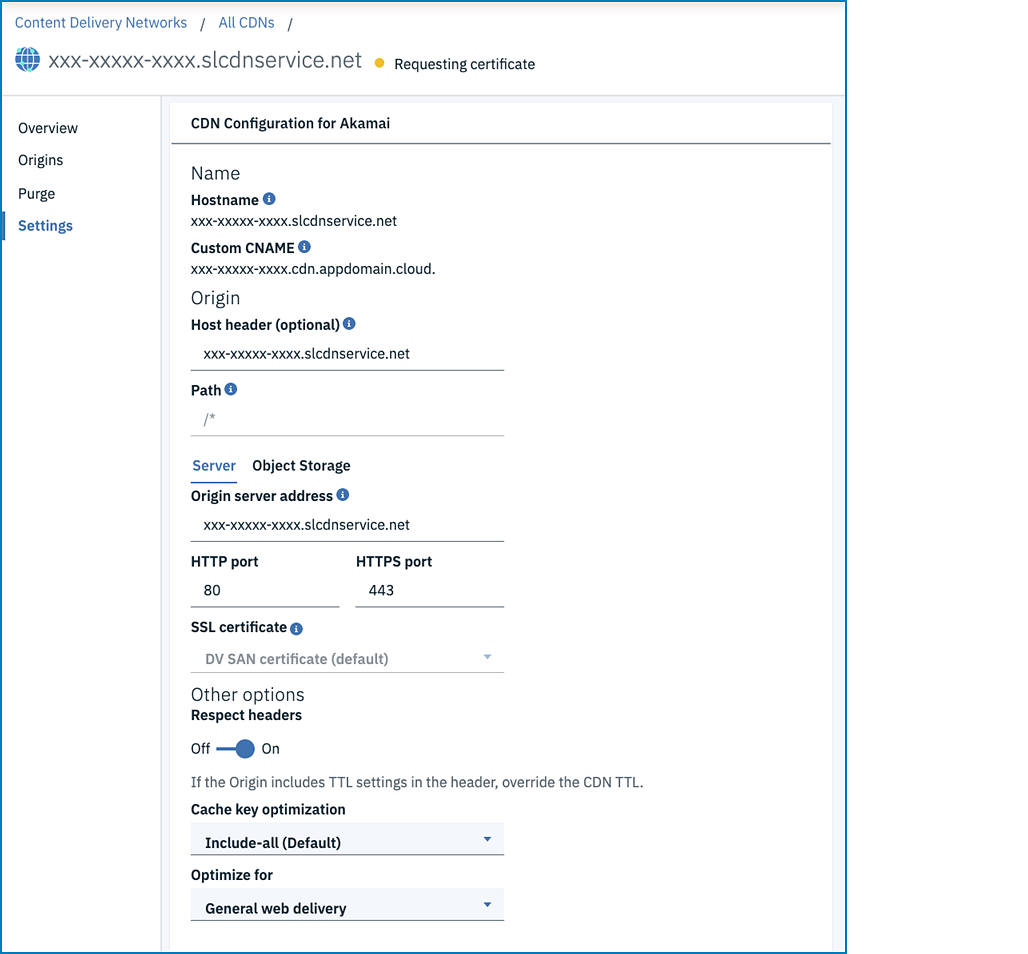
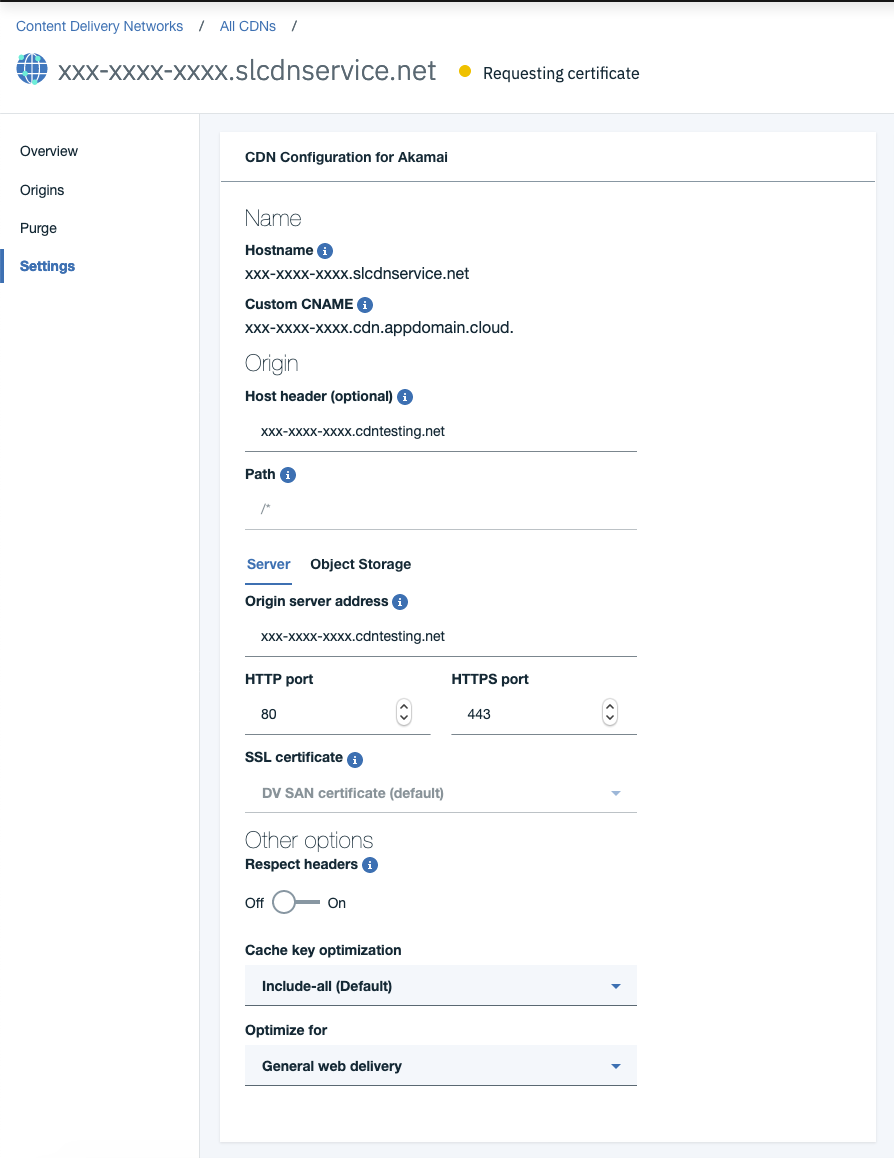
PR updates & template changes

diff --git a/whats-new.md b/whats-new.md
@@ -2,7 +2,7 @@
 
 copyright:
   years: 2018, 2020
-lastupdated: "2020-09-28"
+lastupdated: "2020-12-03"
 
 keywords:
 
@@ -24,54 +24,60 @@ subcollection: CDN
 {{site.data.keyword.cloud}} launched the CDN service with Akamai in September 2017, but we haven't stopped there. We continue to make enhancements and add new features to the service, in order to better serve you and your end-users. Check back periodically to see what's new.
 {:shortdesc}
 
+## December 2020
+{: #december-2020}
+
+  * Change the default [respect header](/docs/CDN?topic=CDN-about-content-delivery-networks-cdn-#respect-headers) value from `ON` to `OFF`.
+  * Add [Feedback widget](/docs/overview?topic=overview-feedback) for CDN service.
+
 ## September 2020
 {: #september-2020}
 
   * Performance optimization [Akamai CNAME](/docs/CDN?topic=CDN-getting-to-running-status#akamai-cname) support
-  * Added a DNS based [challenge domain](/docs/CDN?topic=CDN-completing-domain-control-validation-for-https-with-dv-san#challenge-domain) validation method for SAN HTTPS
+  * Added a DNS based [challenge domain](/docs/CDN?topic=CDN-completing-domain-control-validation-for-https-with-dv-san#challenge-domain) validation method for SAN HTTPS.
 
 ## August 2020
 {: #august-2020}
 
-  * Token authentication support [feature description](/docs/CDN?topic=CDN-about-content-delivery-networks-cdn-#token-authentication) (available through API)
+  * Token authentication support [feature description](/docs/CDN?topic=CDN-about-content-delivery-networks-cdn-#token-authentication) (available through API).
 
 ## July 2020
 {: #july-2020}
 
-  * Integrated CDN mapping metrics API support [API reference](/docs/CDN?topic=CDN-cdn-api-reference#getmappingintegratedmetrics)
+  * Integrated CDN mapping metrics API support [API reference](/docs/CDN?topic=CDN-cdn-api-reference#getmappingintegratedmetrics).
 
 ## March 2020
 {: #march-2020}
 
-  * Multiple files purge [feature description](/docs/CDN?topic=CDN-about-content-delivery-networks-cdn-#purge-cached-content) (available through UI and API)
-  * Real-time metrics API [feature description](/docs/CDN?topic=CDN-metrics) (available through UI and API)
-  * Activity Tracker Events for Audit log [feature description](/docs/CDN?topic=CDN-at_events) (available through UI)
+  * Multiple files purge [feature description](/docs/CDN?topic=CDN-about-content-delivery-networks-cdn-#purge-cached-content) (available through UI and API).
+  * Real-time metrics API [feature description](/docs/CDN?topic=CDN-metrics) (available through UI and API).
+  * Activity Tracker Events for Audit log [feature description](/docs/CDN?topic=CDN-at_events) (available through UI).
 
 ## October 2019
 {: #october-2019}
 
-  * Dynamic Content Acceleration [feature description](/docs/CDN?topic=CDN-about-content-delivery-networks-cdn-#dynamic-content-acceleration-description) (available through UI and API)
-  * [Metrics reports](/docs/CDN?topic=CDN-metrics) for overall CDN mappings (available through UI and API)
+  * Dynamic Content Acceleration [feature description](/docs/CDN?topic=CDN-about-content-delivery-networks-cdn-#dynamic-content-acceleration-description) (available through UI and API).
+  * [Metrics reports](/docs/CDN?topic=CDN-metrics) for overall CDN mappings (available through UI and API).
 
 ## August 2019
 {: #august-2019}
 
-  * Move to the new IBM CNAME suffix `.cdn.appdomain.cloud.` from `.cdnedge.bluemix.net.` to unify user experience (Existing CDNs that are mapped to `.cdnedge.bluemix.net.` will NOT be impacted).
+  * Move to the new IBM CNAME suffix `.cdn.appdomain.cloud.` from `.cdnedge.bluemix.net.` to unify user experience (Existing CDNs that are mapped to `.cdnedge.bluemix.net.` are not impacted).
 
 ## March 2019
 {: #march-2019}
 
-  * Hotlink Protection [feature description](/docs/CDN?topic=CDN-about-content-delivery-networks-cdn-#hotlink-protection) (available through UI)
+  * Hotlink Protection [feature description](/docs/CDN?topic=CDN-about-content-delivery-networks-cdn-#hotlink-protection) (available through UI).
 
 ## November 2018
 {: #november-2018}
 
-  * Hotlink Protection [feature description](/docs/CDN?topic=CDN-about-content-delivery-networks-cdn-#hotlink-protection) (available through the API)
+  * Hotlink Protection [feature description](/docs/CDN?topic=CDN-about-content-delivery-networks-cdn-#hotlink-protection) (available through the API).
 
 ## October 2018
 {: #december-2018}
 
-  * Increased the [maximum number of supported origins paths](/docs/CDN?topic=CDN-known-limitations#known-limitations) from 25 to 75
+  * Increased the [maximum number of supported origins paths](/docs/CDN?topic=CDN-known-limitations#known-limitations) from 25 to 75.
   * [Origin paths](/docs/CDN?topic=CDN-adding-origin-path-details) no longer need to start with Mapping Path Prefix.
   * The minimum possible [TTL](/docs/CDN?topic=CDN-setting-content-caching-time-using-time-to-live) time value is now 0. This would preserve the cookies from the origin for content under the associated TTL path.
 
@@ -79,28 +85,28 @@ subcollection: CDN
 {: #september-2018}
 
   * We now have POPs in these newly added locations: Bahrain, Belgium, Colombia, Ecuador, Finland, Greece, Hong Kong S.A.R. of the PRC, Indonesia, Macau, Norway, Oman, Romania, South Korea, Sri Lanka, United Arab Emirates, and Uruguay. Look at the complete list of countries [here](/docs/CDN?topic=CDN-list-of-edge-servers#list-of-edge-servers).
-  * Ability to specify TTL of 0 seconds for a given path
+  * Ability to specify TTL of 0 seconds for a given path.
 
 ## August 2018
 {: #august-2018}
 
-  * Geographical Access Control [feature description](/docs/CDN?topic=CDN-about-content-delivery-networks-cdn-#geographical-access-control) (available through UI)
-  * Vendor Selection step is not needed anymore for [Ordering a CDN](/docs/CDN?topic=CDN-order-a-cdn)
+  * Geographical Access Control [feature description](/docs/CDN?topic=CDN-about-content-delivery-networks-cdn-#geographical-access-control) (available through UI).
+  * Vendor Selection step is not needed anymore for [Ordering a CDN](/docs/CDN?topic=CDN-order-a-cdn).
 
 ## July 2018
 {: #july-2018}
 
-  * Geographical Access Control [feature description](/docs/CDN?topic=CDN-about-content-delivery-networks-cdn-#geographical-access-control) (available through the API)
+  * Geographical Access Control [feature description](/docs/CDN?topic=CDN-about-content-delivery-networks-cdn-#geographical-access-control) (available through the API).
 
 ## June 2018
 {: #june-2018}
 
-  * HTTPS with DV SAN support [feature description](/docs/CDN?topic=CDN-about-content-delivery-networks-cdn-#https-protocol-support)
+  * HTTPS with DV SAN support [feature description](/docs/CDN?topic=CDN-about-content-delivery-networks-cdn-#https-protocol-support).
   * IBM Content Delivery Network adheres to the EU General Data Protection Regulation (GDPR) and compliance requirements. Our privacy practices are detailed in the [IBM Privacy Statement](https://www.ibm.com/privacy/us/en/).
 
 ## March 2018
 {: #march-2018}
 
-  * Large File Optimization [feature description](/docs/CDN?topic=CDN-about-content-delivery-networks-cdn-#large-file-optimization)
-  * Cache Key Optimization [feature description](/docs/CDN?topic=CDN-about-content-delivery-networks-cdn-#cache-key-optimization)
-  * Video On Demand Optimization [feature description](/docs/CDN?topic=CDN-about-content-delivery-networks-cdn-#video-on-demand)
+  * Large File Optimization [feature description](/docs/CDN?topic=CDN-about-content-delivery-networks-cdn-#large-file-optimization).
+  * Cache Key Optimization [feature description](/docs/CDN?topic=CDN-about-content-delivery-networks-cdn-#cache-key-optimization).
+  * Video On Demand Optimization [feature description](/docs/CDN?topic=CDN-about-content-delivery-networks-cdn-#video-on-demand).

diff --git a/dynamic-content-acceleration.md b/dynamic-content-acceleration.md
@@ -1,8 +1,8 @@
 ---
 
 copyright:
-  years: 2019
-lastupdated: "2020-04-08"
+  years: 2019, 2020
+lastupdated: "2020-12-03"
 
 keywords: DCA, dynamic, detection path, prefetching, image compression, ttl, cache
 
@@ -100,10 +100,10 @@ When DCA is enabled for your CDN mapping or origin, the Akamai Edge servers cach
 
 * To prevent caching of contents, do one of the following:
 
-   - Set `Respect header` to `ON` (default) and include headers in your origin, which prevents caching (for example, `Cache-Control: no-cache, no-store`).
-   - Set `Respect header` to `OFF`, create a TTL with a path to match your contents, and set a `0` value.
+   - Set `Respect header` to `ON` and include headers in your origin, which prevents caching (for example, `Cache-Control: no-cache, no-store`).
+   - Set `Respect header` to `OFF` (default), create a TTL with a path to match your contents, and set a `0` value.
 
 In some cases, you might want to mix static (for example, images, CSS, JS) and dynamic assets under the same path, so you might need to make some assets cacheable. You can do this with the following options:
 
 - Set `Respect header` to `ON` and set the caching headers in your origin (for example, `Cache-Control:public, max-age=31536000`).
-- Set `Respect header` to `OFF`, create a TTL with path to match your static contents, and set the value as the wanted caching time.
+- Set `Respect header` to `OFF` (default), create a TTL with path to match your static contents, and set the value as the wanted caching time.

diff --git a/video-what-is-cdn.md b/video-what-is-cdn.md
@@ -1,0 +1,30 @@
+---
+
+copyright:
+  years: 2020
+lastupdated: "2020-11-03"
+
+subcollection: CDN
+
+keywords:
+
+---
+
+{:shortdesc: .shortdesc}
+{:codeblock: .codeblock}
+{:screen: .screen}
+{:external: target="_blank" .external}
+{:pre: .pre}
+{:table: .aria-labeledby="caption"}
+{:video: .video}
+
+# Video - What is a Content Delivery Network?
+{: #content-delivery-network-video}
+
+Your users expect fast load times for your web apps, but content delivery can be slow and inconsistent.
+{: shortdesc}
+
+The IBM Content Delivery Network provides content caching on the Akamai network, so content is delivered at record speed. Serve non-cacheable dynamic content with optimized performance, and automatically scale your service with pay-as-you-go pricing.
+
+<!-- YouTube video -->
+![Networking overview](https://www.youtube.com/embed/Bsq5cKkS33I){: video output="iframe" data-script="video-script" id="youtubeplayer" frameborder="0" webkitallowfullscreen mozallowfullscreen allowfullscreen}

diff --git a/video-set-up-web-app.md b/video-set-up-web-app.md
@@ -1,0 +1,28 @@
+---
+
+copyright:
+  years: 2020
+lastupdated: "2020-11-03"
+
+subcollection: CDN
+
+keywords:
+
+---
+
+{:shortdesc: .shortdesc}
+{:codeblock: .codeblock}
+{:screen: .screen}
+{:external: target="_blank" .external}
+{:pre: .pre}
+{:table: .aria-labeledby="caption"}
+{:video: .video}
+
+# Video - Setting up a web app with security groups, load balancer & CDN
+{: #set-up-web-app-video}
+
+{{site.data.keyword.cloud}} network services, including load balancer, security groups, and CDN make it easy to build cloud-native applications with greater security, performance, and resiliency. In this demo, you'll learn how you can use these services to create a simple three-tiered web app in a matter of clicks.
+{: shortdesc}
+
+<!-- YouTube video -->
+![Networking overview](https://www.youtube.com/embed/LRvNCXvtkX0){: video output="iframe" data-script="video-script" id="youtubeplayer" frameborder="0" webkitallowfullscreen mozallowfullscreen allowfullscreen}

diff --git a/control-http-client-cache-duration.md b/control-http-client-cache-duration.md
@@ -1,8 +1,8 @@
 ---
 
 copyright:
-  years: 2017, 2018, 2019
-lastupdated: "2019-04-04"
+  years: 2017, 2020
+lastupdated: "2020-12-03"
 
 keywords: cache control, cache-control, cache duration, max-age,  Edge server, edge-level, respect header, HTTP client
 
@@ -28,7 +28,7 @@ When using a CDN, two levels of caching are available:
 
 The method that you choose to control how long content is cached at the requester, such as a browser, depends on the following factors:
 
-  * Whether the Respect Header setting is ON or OFF. By default it is set to ON.
+  * Whether the Respect Header setting is `ON` or `OFF` (default).
   * Whether the origin server provides a `max-age` value in the Cache-Control header for a particular piece of content.
 
 Regardless of how these factors change, your origin must provide a Cache-Control header for the intended content to the Edge, if you want Edge servers to send HTTP responses with the Cache-Control header for that content.

diff --git a/cdn-example-code.md b/cdn-example-code.md
@@ -2,7 +2,7 @@
 
 copyright:
   years: 2017, 2020
-lastupdated: "2020-08-31"
+lastupdated: "2020-12-03"
 
 keywords: code examples, example API calls, CDN API, Soap, client, apiKey
 
@@ -231,7 +231,7 @@ try {
     $inputObject->cname = "api-testing.cdn.appdomain.cloud.";
     $inputObject->path = "/media";
     $inputObject->header = '';
-    $inputObject->respectHeader = true;
+    $inputObject->respectHeader = false;
     $inputObject->bucketName = 'mybucket';
     $inputObject->fileExtension = "txt, jpeg";
     $inputObject->cacheKeyQueryRule = "include-all";
@@ -266,7 +266,7 @@ Array
             [path] => /media/
             [performanceConfiguration] => General web delivery
             [protocol] => HTTP
-            [respectHeaders] => 1
+            [respectHeaders] => 0
             [serveStale] => 1
             [status] => CNAME_CONFIGURATION
             [uniqueId] => 610345992629xxx

diff --git a/video-networking-overview.md b/video-networking-overview.md
@@ -1,0 +1,28 @@
+---
+
+copyright:
+  years: 2020
+lastupdated: "2020-11-03"
+
+subcollection: CDN
+
+keywords:
+
+---
+
+{:shortdesc: .shortdesc}
+{:codeblock: .codeblock}
+{:screen: .screen}
+{:external: target="_blank" .external}
+{:pre: .pre}
+{:table: .aria-labeledby="caption"}
+{:video: .video}
+
+# Video - IBM Cloud networking overview
+{: #networking-overview-video}
+
+{{site.data.keyword.cloud}} offers networking solutions for the real world – exclusively designed to enhance your traffic, satisfy your users, and protect your sanity.
+{: shortdesc}
+
+<!-- YouTube video -->
+![Networking overview](https://www.youtube.com/embed/KMRAXSu6KJ8){: video output="iframe" data-script="video-script" id="youtubeplayer" frameborder="0" webkitallowfullscreen mozallowfullscreen allowfullscreen}

diff --git a/mapping-container.md b/mapping-container.md
@@ -1,8 +1,8 @@
 ---
 
 copyright:
-  years: 2017, 2018, 2019
-lastupdated: "2019-08-06"
+  years: 2017, 2020
+lastupdated: "2020-12-03"
 
 keywords: mapping, container, class, collection, object, API
 
@@ -74,7 +74,7 @@ Returns an object similar to this one:
             [path] => /media/
             [performanceConfiguration] => General web delivery
             [protocol] => HTTP
-            [respectHeaders] => 1
+            [respectHeaders] => 0
             [serveStale] => 1
             [status] => RUNNING
             [uniqueId] => 750352919747xxx
